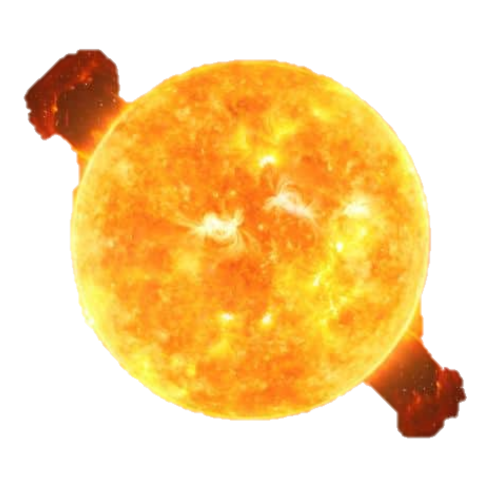
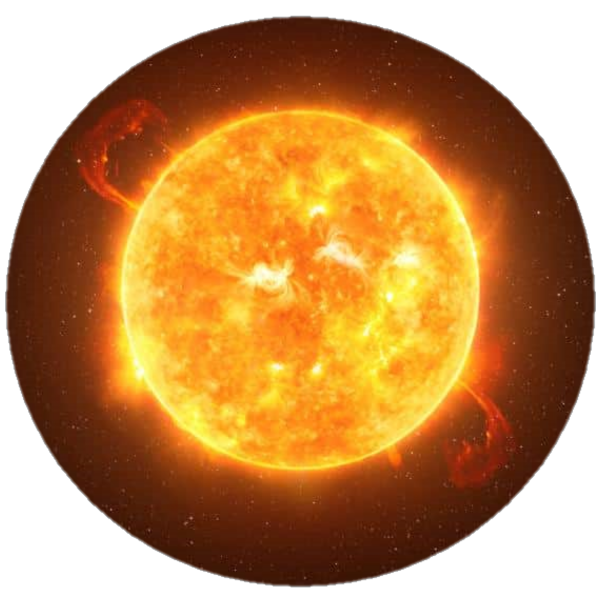
imagens melhores e botao de inicio

diff --git a/pages/final.js b/pages/final.js
@@ -6,9 +6,9 @@ function FinalPage() {
         <div className="ending page bg" style={{backgroundImage: `url(${background.src})`}}>
             <div className='title'>
                 AFINAL, SOMOS INSIGNIFICANTES?
-                <div className='subtitle'>SE APENAS O NOSSO PLANETA JÁ SE MOSTRA IMENSO PARA QUALQUER PESSOA CONHECÊ-LO TOTALMENTE, EM UMA VISÃO MAIOR, NÃO SOMOS NADA MAIS QUE PEQUENOS GRÃOS DE AREIA NA IMENSIDÃO DO UNIVERSO. ISTO NOS TORNA INSIGNIFICANTES EM UM SENTIDO CÓSMICO, MAS TAMBÉM PODE TER UM OUTRO SIGNIFICADO: SE TEMOS UMA VIDA TÃO BREVE, PORQUE NÃO APROVEITÁ-LA AO MÁXIMO? TALVEZ O NOSSO PROPÓSITO NÃO ESTEJA EM MUDAR O CURSO DO UNIVERSO, OU EM CONQUISTAR PODER E SER ETERNIZADO NA HISTÓRIA, MAS SIM APROVEITAR AS PEQUENAS COISAS DO DIA-A-DIA E PROCURAR SER A MELHOR PESSOA QUE PODEMOS SER. OUÇA A SUA MÚSICA FAVORITA, JOGUE O SEU JOGO FAVORITO, CHAME OS SEUS AMIGOS, CONHEÇA NOVAS PESSOAS, CHAME AQUELA PESSOA PARA UM ENCONTRO. AFINAL, SOMOS A ÚNICA FAÍSCA DE VIDA &#40;CONHECIDA&#41; EM TODO O UNIVERSO, E VOCÊ CERTAMENTE NÃO IRIA QUERER DESPERDIÇÁ-LA.</div>
+                <div className='subtitle'>SE APENAS O NOSSO PLANETA JÁ SE MOSTRA IMENSO PARA QUALQUER PESSOA CONHECÊ-LO TOTALMENTE, EM UMA VISÃO MAIOR, NÃO SOMOS NADA MAIS QUE PEQUENOS GRÃOS DE AREIA NA IMENSIDÃO DO UNIVERSO. ISTO NOS TORNA INSIGNIFICANTES EM UM SENTIDO CÓSMICO, MAS TAMBÉM PODE TER UM OUTRO SIGNIFICADO - SE TEMOS UMA VIDA TÃO BREVE, PORQUE NÃO APROVEITÁ-LA AO MÁXIMO? TALVEZ O NOSSO PROPÓSITO NÃO ESTEJA EM MUDAR O CURSO DO UNIVERSO, OU EM CONQUISTAR PODER E SER ETERNIZADO NA HISTÓRIA, MAS SIM APROVEITAR AS PEQUENAS COISAS DO DIA-A-DIA E PROCURAR SER A MELHOR PESSOA QUE PODEMOS SER. OUÇA A SUA MÚSICA FAVORITA, JOGUE O SEU JOGO FAVORITO, CHAME OS SEUS AMIGOS, CONHEÇA NOVAS PESSOAS, CHAME AQUELA PESSOA PARA UM ENCONTRO. AFINAL, SOMOS A ÚNICA FAÍSCA DE VIDA &#40;CONHECIDA&#41; EM TODO O UNIVERSO, E VOCÊ CERTAMENTE NÃO IRIA QUERER DESPERDIÇÁ-LA.</div>
             </div>
-            <LinkButton href='/' name='VOLTAR' right={false}/>
+            <LinkButton href='/' name='INÍCIO' right={false}/>
             <div className="star-field">
                 <div className="layer"></div>
                 <div className="layer"></div>

diff --git a/lib/posts.js b/lib/posts.js
@@ -42,7 +42,7 @@ const posts = [
     {
         title: 'Betelgeuse',
         image: '/betelgeuse.png',
-        conceptualImage: false,
+        conceptualImage: true,
         radius: 0.0000652,
         description: 'Alpha Orionis, conhecida como Betelgeuse, é uma estrela de brilho variável sendo a 10ª ou 12ª estrela mais brilhante das que podem ser vistas da Terra. É também a segunda estrela mais brilhante na constelação de Orion. Ela é a maior fonte no comprimento de onda infravermelho presente no céu.',
         slug: 'betelgeuse'
@@ -50,7 +50,7 @@ const posts = [
     {
         title: 'UY Scuti',
         image: '/uy_scuti.png',
-        conceptualImage: false,
+        conceptualImage: true,
         radius: 0.000125,
         description: 'UY Scuti é uma estrela supergigante vermelha. Possui um volume de quase 5 bilhões de vezes o do Sol. Está a aproximadamente 5.100 anos-luz da Terra. Se colocada no centro do Sistema Solar, sua fotosfera pelo menos envolveria a órbita de Júpiter.',
         slug: 'uy_scuti'

diff --git a/styles/index.css b/styles/index.css
@@ -43,6 +43,7 @@ a {
   justify-content: center;
   align-items: center;
   gap: 20px;
+  padding: 0px 60px;
 }
 .landing{
   display: flex;
@@ -66,7 +67,7 @@ a {
   flex-direction: column;
   justify-content: center;
   align-items: center;
-  gap: 10px;
+  gap: 20px;
 }
 .subtitle{
   font-weight: 400;
@@ -115,6 +116,7 @@ a {
   'title title title'
   'smallerimg biggerimg description'
 }
+
 .imgbackground{
   display: flex;
   flex-direction: column;
@@ -163,6 +165,10 @@ a {
   grid-area: description;
   display: grid;
   align-items: center;
+}
+.topastrobutton{
+  position: absolute;
+  top: 30px;
 }
 .astrobutton{
   position: absolute;

diff --git a/pages/[slug].js b/pages/[slug].js
@@ -27,6 +27,7 @@ function Astro({postData}) {
             </div>
             <div className='astrotitle'>{postData.p.title.toUpperCase()}</div>
             <div className='astrodescription'>{postData.p.description.toUpperCase()}</div>
+            <LinkButton href='/' name='INÍCIO' right={false} extraStyles='left topastrobutton'/>
             <LinkButton href={`/${postData.previous.slug}`} name='VOLTAR' right={false} extraStyles='left astrobutton'/>
             <LinkButton startAnimation={startAnimation} href={`/${postData.next.slug}`} name='AMPLIAR' right={true} extraStyles='right astrobutton'/>
         </div>
